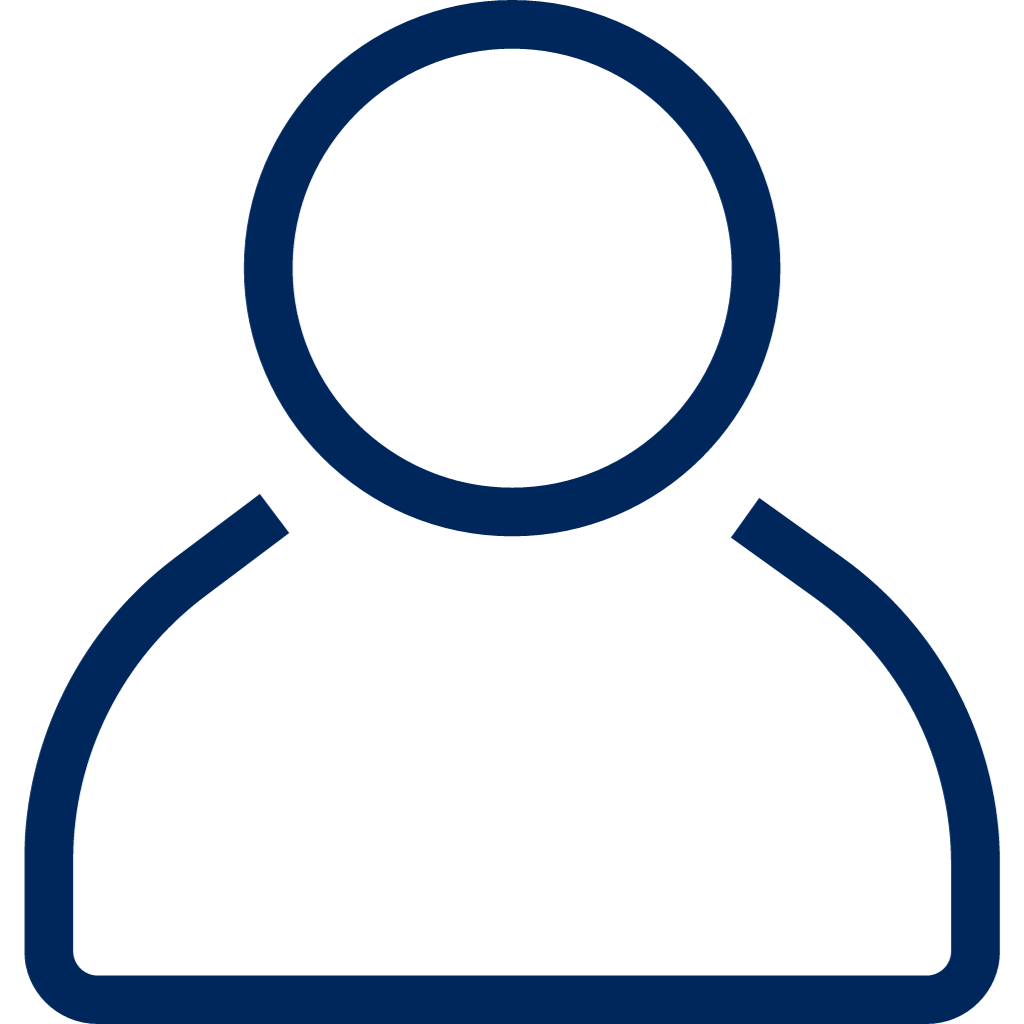
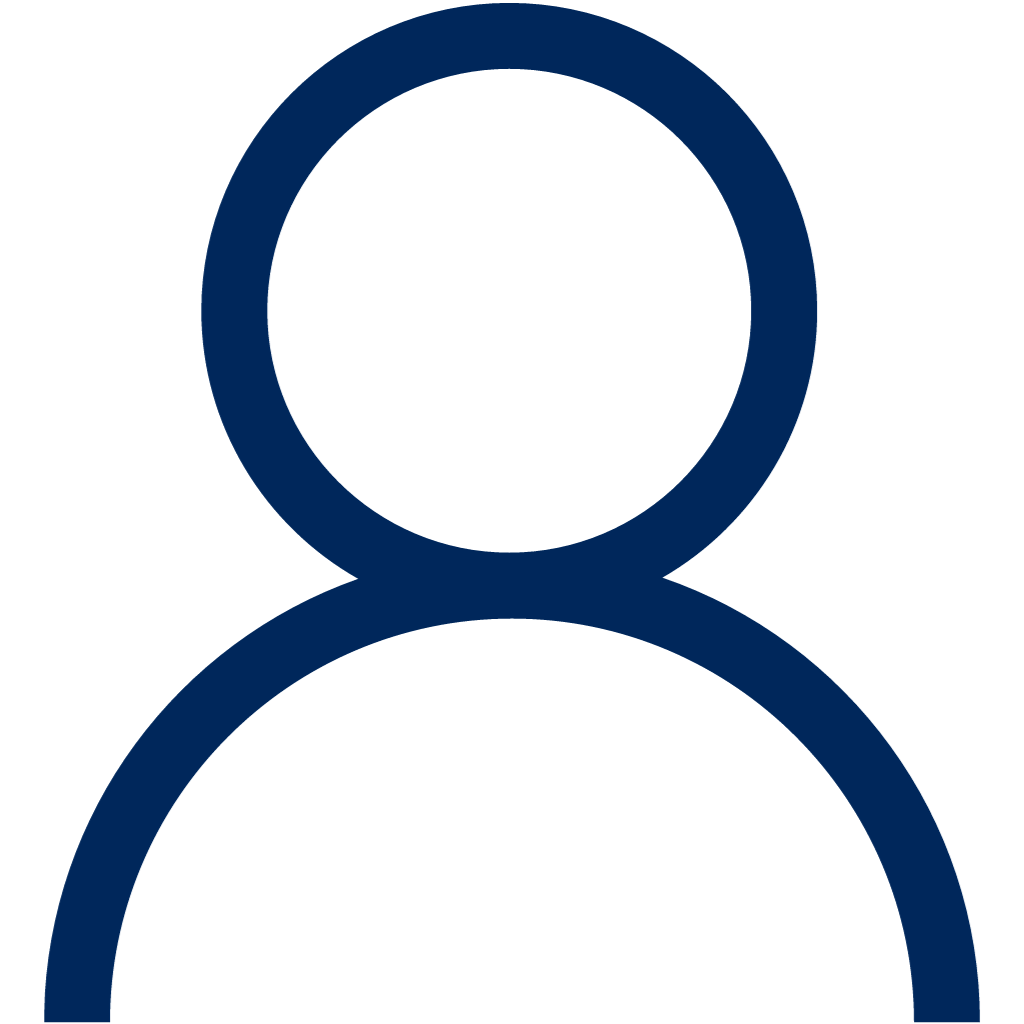
feat: style the header
The navbar got centered to ensure better legibility and the elements were aligned horizontally in the typical navbar fashion.
Padding was added between element and the items were grouped together to ensure a good user's overview of all available options.

Links were added where appropriate and the user icon was exchanged for another that matches the other icons better.

The header was made responsive to different window sizes.

Brand colors were used to create a cohesive, minimalistic look.

diff --git a/index.html b/index.html
@@ -6,7 +6,7 @@
     <meta http-equiv="X-UA-Compatible" content="ie=edge">
     <title>Spellbound Treasures</title>
     <link rel="icon" type="image/x-icon" href="./images/favicon.ico"> 
-    <link rel="stylesheet" href="style.css">
+    <link rel="stylesheet" href="./assets/style.css">
     <script src="./assets/script.js"></script>
 
     <!--Google Fonts-->
@@ -19,31 +19,31 @@
 <body>
     <header>
         <nav>
-            <div>
+            <div class="navbar">
                 <a href="index.html">
                     <img src="./images/spellbound_treasures_logo.svg" alt="blue crescent moon with a silver wand crossing it" height="100">
                 </a>
-                <div>
-                    <ul>
+                
+                    <ul class="header-links">
                         <li><a href="./index.html">Home</a></li>
                         <li>Collections</li>
-                        <li>Contact</li>
-                        <li>About</li>
+                        <li><a href="index.html">Contact</a></li>
+                        <li><a href="index.html">About</a></li>
                     </ul>
-                    <div class="greeting">Hi user!</div>
+                    <div class="greeting"></div>
                     <div>
-                        <ul>
+                        <ul class="icon-list">
                             <li>
-                                <img src="./images/search.png" alt="search icon" height="30">
+                                <img src="./images/search.png" alt="search icon" height="20">
                             </li>
                             <li>
                                 <a href="./pages/login.html">
-                                    <img src="./images/user.png" alt="user icon" height="30">
+                                    <img src="./images/user.png" alt="user icon" height="20">
                                 </a>
                             </li>
                             <li>
                                 <a href="./pages/cart.html">
-                                    <img src="./images/cart.png" alt="shopping cart icon" height="30">
+                                    <img src="./images/cart.png" alt="shopping cart icon" height="20">
                                 </a></li>
                         </ul>
 
@@ -52,7 +52,9 @@
 
             </div>
         </nav>
-        <img src="./images/spellbound_treasures_banner.png" alt="mystical shelf with spellbooks, magical trinkets, potions, candles and crystals, shrouded in darkness" width="100%">
+        <a href="index.html">
+            <img src="./images/spellbound_treasures_banner.png" alt="mystical shelf with spellbooks, magical trinkets, potions, candles and crystals, shrouded in darkness" width="100%">
+        </a>
     </header>
 
     <main>
@@ -76,7 +78,7 @@
                 <li><a href="index.html">Home</a></li>
                 <li>Search</li>
             </ul>
-            
+
             <ul>
                 <li>Your Privacy Matters</li>
                 <li>Shipping Policy</li>

diff --git a/assets/style.css b/assets/style.css
@@ -1,0 +1,56 @@
+* {
+    padding: 0;
+    margin: 0;
+}
+
+body {
+    height: 100vh;
+    font-family: robote, Verdana, Geneva, Tahoma, sans-serif;
+    background-color: white;
+}
+
+nav {
+    display: flex;
+    justify-content: center;
+}
+
+ul {
+    list-style: none;
+}
+
+a {
+    text-decoration: none;
+    color: #00275B;
+}
+
+.navbar {
+    width: 60vw;
+    display: flex;
+    align-items: center;
+    flex-wrap: wrap;
+}
+
+.header-links {
+    display: flex;
+    gap: 1.5em;
+    flex-wrap: wrap;
+    margin-left: 35px;
+    margin-right: 35px;
+    color: #00275B;
+    font-size: 1.05em;
+}
+
+.icon-list {
+    display: flex;
+    flex-wrap: wrap;
+    gap: 1.5em;
+}
+
+.greeting {
+    display: flex;
+    margin-left: auto;
+    margin-right: 30px;
+    font-size: 1em;
+    color: #00275B;
+}
+
